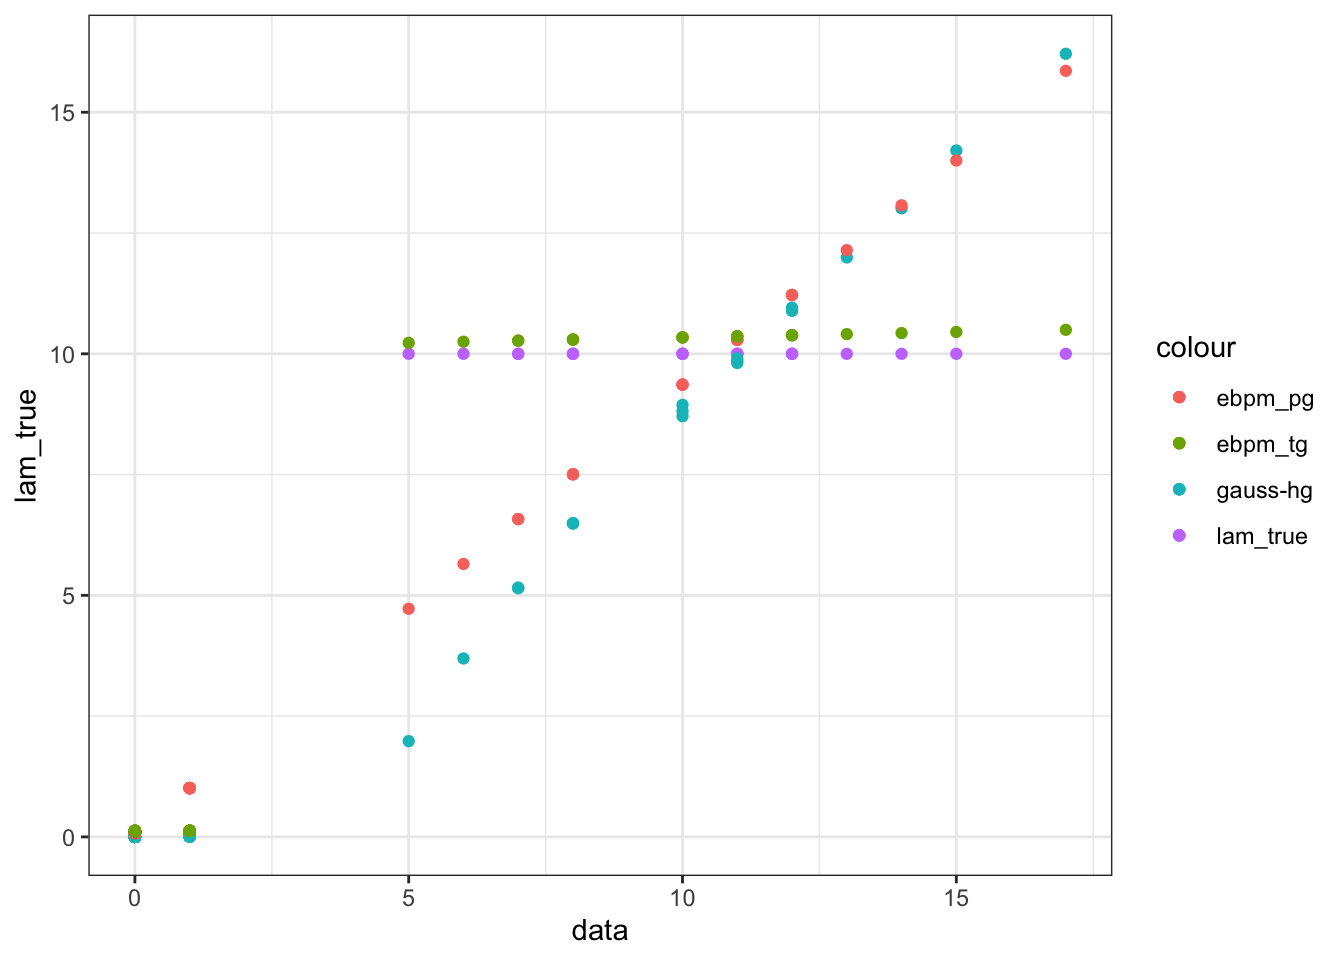
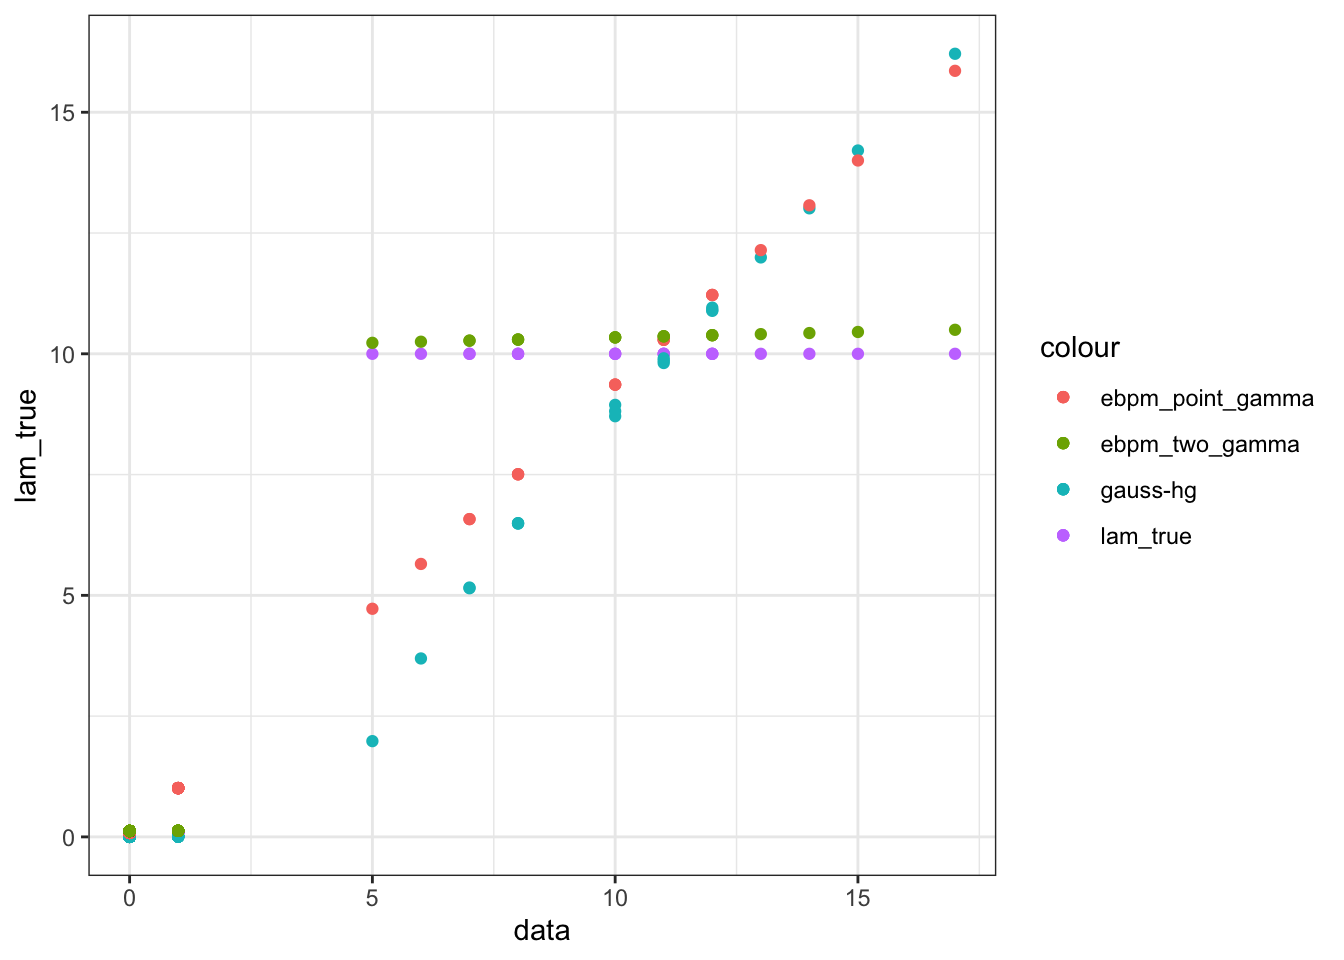
Build site.

diff --git a/docs/compare_GH.html b/docs/compare_GH.html
@@ -545,10 +545,10 @@ unnamed-chunk-4
 <div class="panel panel-default">
 <div class="panel-heading">
 <p class="panel-title">
-<a data-toggle="collapse" data-parent="#workflowr-checks" href="#strongRepositoryversionstrongahrefhttpsgithubcomzihao12ebpmfdemotreef7d19c735ddc71cb3f82c1b9d846a0cee945af6ftargetblankf7d19c7a"> <span class="glyphicon glyphicon-ok text-success" aria-hidden="true"></span> <strong>Repository version:</strong> <a href="https://github.com/zihao12/ebpmf_demo/tree/f7d19c735ddc71cb3f82c1b9d846a0cee945af6f" target="_blank">f7d19c7</a> </a>
+<a data-toggle="collapse" data-parent="#workflowr-checks" href="#strongRepositoryversionstrongahrefhttpsgithubcomzihao12ebpmfdemotree42ef199a4820a95a4525d257a588a0f3499717d4targetblank42ef199a"> <span class="glyphicon glyphicon-ok text-success" aria-hidden="true"></span> <strong>Repository version:</strong> <a href="https://github.com/zihao12/ebpmf_demo/tree/42ef199a4820a95a4525d257a588a0f3499717d4" target="_blank">42ef199</a> </a>
 </p>
 </div>
[2 lines of base64/hex data omitted]
 <div class="panel-body">
 <p>
 Great! You are using Git for version control. Tracking code development and connecting the code version to the results is critical for reproducibility. The version displayed above was the version of the Git repository at the time these results were generated. <br><br> Note that you need to be careful to ensure that all relevant files for the analysis have been committed to Git prior to generating the results (you can use <code>wflow_publish</code> or <code>wflow_git_commit</code>). workflowr only checks the R Markdown file, but you know if there are other scripts or data files that it depends on. Below is the status of the Git repository when the results were generated:
@@ -640,6 +640,40 @@ Message
 </tr>
 </thead>
 <tbody>
+<tr>
+<td>
+Rmd
+</td>
+<td>
+<a href="https://github.com/zihao12/ebpmf_demo/blob/42ef199a4820a95a4525d257a588a0f3499717d4/analysis/compare_GH.Rmd" target="_blank">42ef199</a>
+</td>
+<td>
+zihao12
+</td>
+<td>
+2019-12-03
+</td>
+<td>
+compare gh with ebpm
+</td>
+</tr>
+<tr>
+<td>
+html
+</td>
+<td>
+<a href="https://rawcdn.githack.com/zihao12/ebpmf_demo/56b957f5b038cc93d43368b9e6a74791490040a1/docs/compare_GH.html" target="_blank">56b957f</a>
+</td>
+<td>
+zihao12
+</td>
+<td>
+2019-12-03
+</td>
+<td>
+Build site.
+</td>
+</tr>
 <tr>
 <td>
 Rmd
@@ -824,9 +858,46 @@ fit_ebpm_tg = ebpm_two_gamma(x = y, s = 1)</code></pre>
 ggplot(data = fit_df)+
   geom_point(aes(x = data, y = lam_true, color = &quot;lam_true&quot;))+
   geom_point(aes(x = data, y = gh, color = &quot;gauss-hg&quot;))+
-  geom_point(aes(x = data, y = ebpm_pg, color = &quot;ebpm_pg&quot;))+
-  geom_point(aes(x = data, y = ebpm_tg, color = &quot;ebpm_tg&quot;))</code></pre>
+  geom_point(aes(x = data, y = ebpm_pg, color = &quot;ebpm_point_gamma&quot;))+
+  geom_point(aes(x = data, y = ebpm_tg, color = &quot;ebpm_two_gamma&quot;))</code></pre>
 <p><img src="figure/compare_GH.Rmd/unnamed-chunk-6-1.png" width="672" style="display: block; margin: auto;" /></p>
+<p>
+<button type="button" class="btn btn-default btn-xs btn-workflowr btn-workflowr-fig" data-toggle="collapse" data-target="#fig-unnamed-chunk-6-1">
+Past versions of unnamed-chunk-6-1.png
+</button>
+</p>
+<div id="fig-unnamed-chunk-6-1" class="collapse">
+<div class="table-responsive">
+<table class="table table-condensed table-hover">
+<thead>
+<tr>
+<th>
+Version
+</th>
+<th>
+Author
+</th>
+<th>
+Date
+</th>
+</tr>
+</thead>
+<tbody>
+<tr>
+<td>
+<a href="https://github.com/zihao12/ebpmf_demo/blob/56b957f5b038cc93d43368b9e6a74791490040a1/docs/figure/compare_GH.Rmd/unnamed-chunk-6-1.png" target="_blank">56b957f</a>
+</td>
+<td>
+zihao12
+</td>
+<td>
+2019-12-03
+</td>
+</tr>
+</tbody>
+</table>
+</div>
+</div>
 <p>Take a closer look at those quasi-zeros (counts that comes from small lambda)</p>
 <pre class="r"><code>fit_df_small = fit_df[fit_df$lam_true &lt; 1, ]
 ggplot(data = fit_df_small)+
@@ -835,6 +906,43 @@ ggplot(data = fit_df_small)+
   geom_point(aes(x = data, y = ebpm_pg, color = &quot;ebpm_point_gamma&quot;))+
   geom_point(aes(x = data, y = ebpm_tg, color = &quot;ebpm_two_gamma&quot;))</code></pre>
 <p><img src="figure/compare_GH.Rmd/unnamed-chunk-7-1.png" width="672" style="display: block; margin: auto;" /></p>
+<p>
+<button type="button" class="btn btn-default btn-xs btn-workflowr btn-workflowr-fig" data-toggle="collapse" data-target="#fig-unnamed-chunk-7-1">
+Past versions of unnamed-chunk-7-1.png
+</button>
+</p>
+<div id="fig-unnamed-chunk-7-1" class="collapse">
+<div class="table-responsive">
+<table class="table table-condensed table-hover">
+<thead>
+<tr>
+<th>
+Version
+</th>
+<th>
+Author
+</th>
+<th>
+Date
+</th>
+</tr>
+</thead>
+<tbody>
+<tr>
+<td>
+<a href="https://github.com/zihao12/ebpmf_demo/blob/56b957f5b038cc93d43368b9e6a74791490040a1/docs/figure/compare_GH.Rmd/unnamed-chunk-7-1.png" target="_blank">56b957f</a>
+</td>
+<td>
+zihao12
+</td>
+<td>
+2019-12-03
+</td>
+</tr>
+</tbody>
+</table>
+</div>
+</div>
 <p>Below I show the divergence between estimation and truth (Root Mean Squared Error, Kullback–Leibler divergence , Jensen-Shannon)</p>
 <pre class="r"><code>rmse &lt;- function(true, est){
   return(sqrt(mean((true - est)^2)))
